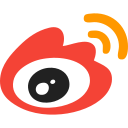
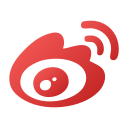
success

diff --git a/src/pages/Error404/index.jsx b/src/pages/Error404/index.jsx
@@ -1,7 +1,7 @@
 import React from "react";
 import "./style.css";
 import { Link } from "react-router-dom";
-import { Box, Typography } from "@mui/material";
+import { Box, Stack, Typography } from "@mui/material";
 
 const Error404 = () => {
   return (
@@ -324,7 +324,17 @@ const Error404 = () => {
         </svg>
       </div>
       <div class="text">
-        <h1>404</h1>
+        <Stack
+          direction="row"
+          alignItems="center"
+          justifyContent="center"
+          spacing={1}
+        >
+          <h1>404</h1>
+          <Box sx={{ width: 64, height: 64 }}>
+            <img src={`${process.env.PUBLIC_URL}/weibo64.png`} />
+          </Box>
+        </Stack>
         <h3>
           Không tìm thấy trang!!! -{" "}
           <Typography

diff --git a/public/index.html b/public/index.html
@@ -2,14 +2,14 @@
 <html lang="en">
   <head>
     <meta charset="utf-8" />
-    <link rel="icon" href="%PUBLIC_URL%/weibo.png" />
+    <link rel="icon" href="%PUBLIC_URL%/weibo32.png" />
     <meta name="viewport" content="width=device-width, initial-scale=1" />
     <meta name="theme-color" content="#000000" />
     <meta
       name="description"
       content="Web site created using create-react-app"
     />
-    <link rel="apple-touch-icon" href="%PUBLIC_URL%/weibo128.png" />
+    <link rel="apple-touch-icon" href="%PUBLIC_URL%/weibo64.png" />
     <!--
       manifest.json provides metadata used when your web app is installed on a
       user's mobile device or desktop. See https://developers.google.com/web/fundamentals/web-app-manifest/

diff --git a/src/components/Header.jsx b/src/components/Header.jsx
@@ -150,7 +150,13 @@ const Header = () => {
                 component={Link}
                 to={PATH_PAGE.home.path}
               >
-                {process.env.REACT_APP_LOGO_NAME}
+                <Stack direction="row" alignItems="flex-end" sx={{ gap: 1 }}>
+                  <img src={`${process.env.PUBLIC_URL}/weibo32.png`} />
+                  <Typography variant="h6" color="primary">
+                    {process.env.REACT_APP_LOGO_NAME}
+                  </Typography>
+                  <Box sx={{ mb: 0.25 }}></Box>
+                </Stack>
               </Typography>
 
               <Box>
